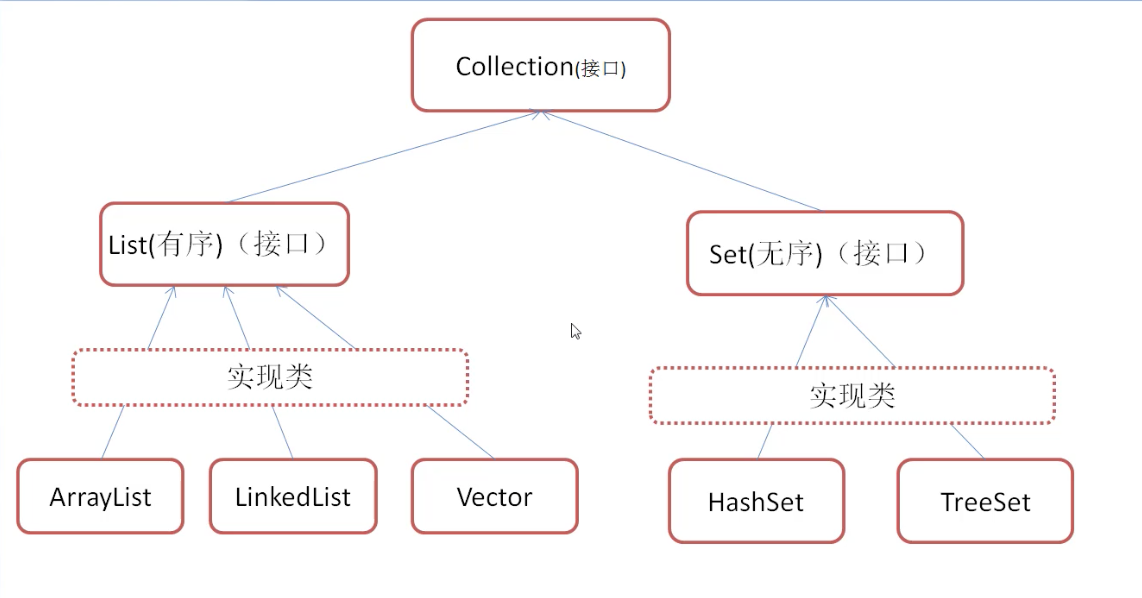
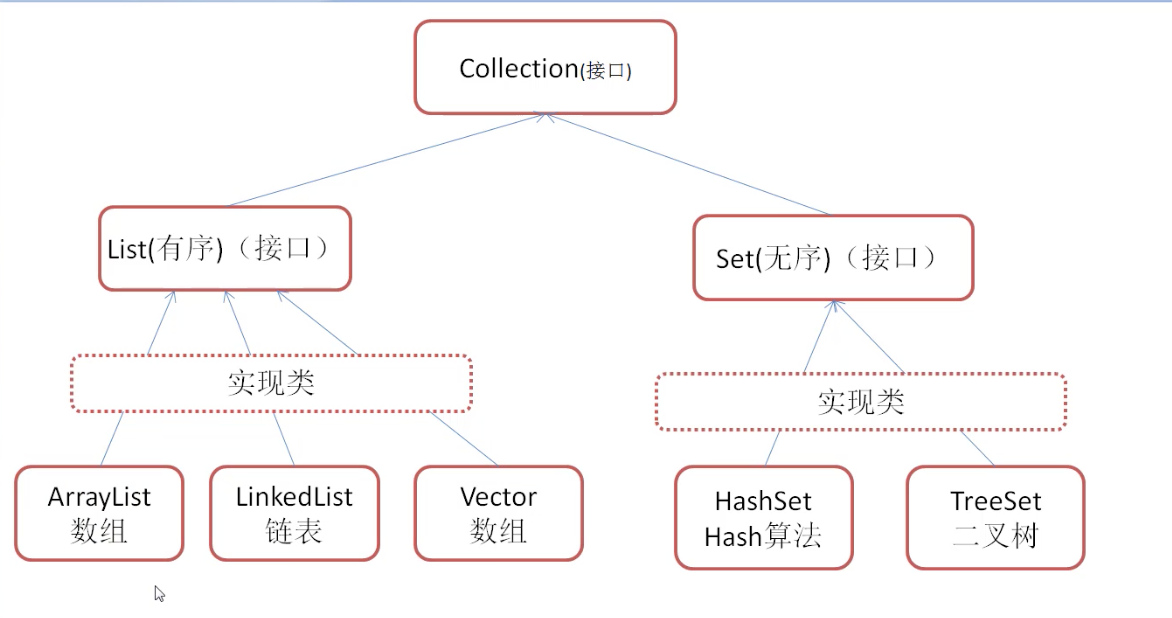
update collections nodes and codes

diff --git a/java-basic/notes/java集合相关.md b/java-basic/notes/java集合相关.md
@@ -148,12 +148,12 @@ class Dog{
   c.add("c");
 
   // Iterator 中的内容自动提升为Object类型
-
+  // 如果是对象，获取值时需要 强制转换 
   Iterator it = c.iterator();
   while(it.hasNext()){
     System.out.println(it.next());
   }
-  
+
 ```
 
 
